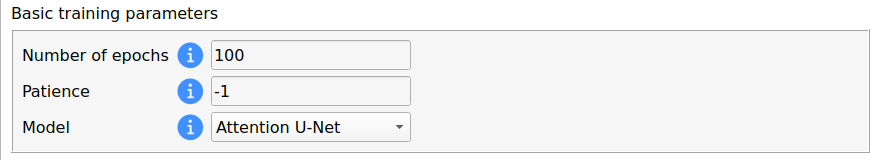
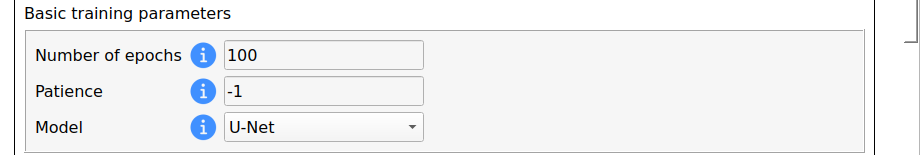
Update denoising workflow with GUI 1.1.0 images and text.

Changed region(s): [[0.0, 0.0, 1.0, 1.0], [0.4266, 0.7484, 0.4876, 0.8774], [0.4571, 0.5161, 0.4876, 0.6452]]

diff --git a/source/workflows/denoising.rst b/source/workflows/denoising.rst
@@ -255,9 +255,8 @@ At the core of each BiaPy workflow there is a deep learning model. Although we t
 
             Under *Workflow*, select *Image denoising*, click twice on *Continue*, and under *General options*, scroll down to *Advanced options*, and edit the last value of the field **Patch size** with the number of channels. This variable follows a ``(y, x, channels)`` notation in 2D and a ``(z, y, x, channels)`` notation in 3D:
 
-            .. image:: ../img/GUI-advanced-options.png
+            .. image:: ../img/denoising/GUI-general-options.png
               :align: center
-              :width: 75%
 
           .. tab:: Google Colab / Notebooks
             
@@ -265,7 +264,6 @@ At the core of each BiaPy workflow there is a deep learning model. Although we t
             
             .. image:: ../img/denoising/Notebooks-basic-training-params.png
               :align: center
-              :width: 75%
 
           .. tab:: YAML configuration file
           
@@ -278,11 +276,10 @@ At the core of each BiaPy workflow there is a deep learning model. Although we t
         .. tabs::
           .. tab:: GUI
 
-            Under *Workflow*, select *Image denoising*, click twice on *Continue*, and under *General options*, scroll down to *Basic training parameters*, and edit the field **Number of epochs**:
+            Under *Workflow*, select *Image denoising*, click twice on *Continue*, and under *General options*, click on *Advanced options*, scroll down to *Basic training parameters*, and edit the field **Number of epochs**:
 
             .. image:: ../img/denoising/GUI-basic-training-params.png
               :align: center
-              :width: 75%
 
           .. tab:: Google Colab / Notebooks
             
@@ -290,7 +287,6 @@ At the core of each BiaPy workflow there is a deep learning model. Although we t
             
             .. image:: ../img/denoising/Notebooks-basic-training-params.png
               :align: center
-              :width: 75%
 
           .. tab:: YAML configuration file
           
@@ -303,11 +299,10 @@ At the core of each BiaPy workflow there is a deep learning model. Although we t
         .. tabs::
           .. tab:: GUI
 
-            Under *Workflow*, select *Image denoising*, click twice on *Continue*, and under *General options*, scroll down to *Basic training parameters*, and edit the field **Patience**:
+            Under *Workflow*, select *Image denoising*, click twice on *Continue*, and under *General options*, click on *Advanced options*, scroll down to *Basic training parameters*, and edit the field **Patience**:
 
             .. image:: ../img/denoising/GUI-basic-training-params.png
               :align: center
-              :width: 75%
 
           .. tab:: Google Colab / Notebooks
             
@@ -315,7 +310,6 @@ At the core of each BiaPy workflow there is a deep learning model. Although we t
             
             .. image:: ../img/denoising/Notebooks-basic-training-params.png
               :align: center
-              :width: 75%
 
           .. tab:: YAML configuration file
           
@@ -454,7 +448,7 @@ Advanced Parameters
 *******************
 Many of the parameters of our workflows are set by default to values that work commonly well. However, it may be needed to tune them to improve the results of the workflow. For instance, you may modify the following parameters:
 
-* **Model architecture**: Select the architecture of the deep neural network used as backbone of the pipeline. Options: U-Net, Residual U-Net, Attention U-Net, SEUNet, MultiResUNet, ResUNet++, UNETR-Mini, UNETR-Small and UNETR-Base. Safe option: U-Net.
+* **Model architecture**: Select the architecture of the deep neural network used as backbone of the pipeline. Options: U-Net, Residual U-Net, Attention U-Net, SEUNet, MultiResUNet, ResUNet++, UNETR-Mini, UNETR-Small, UNETR-Base and U-NeXt V1. Safe option: U-Net.
 * **Batch size**: This parameter defines the number of patches seen in each training step. Reducing or increasing the batch size may slow or speed up your training, respectively, and can influence network performance. Common values are 4, 8, 16, etc.
 * **Patch size**: Input the size of the patches use to train your model (length in pixels in X and Y). The value should be smaller or equal to the dimensions of the image. The default value is 64 in 2D, i.e. 64x64 pixels.
 * **Optimizer**: Select the optimizer used to train your model. Options: ADAM, ADAMW, Stochastic Gradient Descent (SGD). ADAM usually converges faster, while ADAMW provides a balance between fast convergence and better handling of weight decay regularization. SGD is known for better generalization. Default value: ADAMW.
